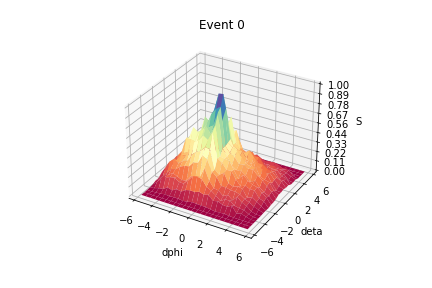
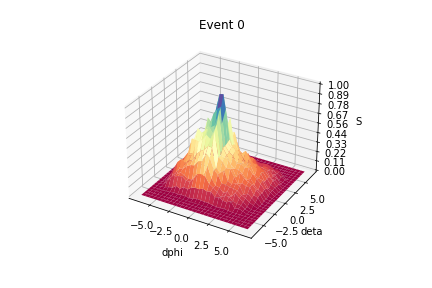
new fig, two bugs fix

diff --git a/utils.py b/utils.py
@@ -4,6 +4,8 @@ import numpy as np
 import scipy as sp
 import pandas as pd
 import matplotlib.pyplot as plt
+from matplotlib import cm
+from matplotlib.ticker import LinearLocator
 
 def importdf(fileaddress:str, delimit:str):  
     df = pd.read_csv(fileaddress,sep=delimit,header=None, names=["pt","eta","phi","charge"])
@@ -52,7 +54,7 @@ def importpdrange(start_event_index, end_event_index):
     for i in range(start_event_index+1, end_event_index+1):
         filename = 'ProcessedData/pbpb_' + str(i) + '.csv'
         datasetnow = importdf(filename, ',')
-        dataset = pd.concat([dataset, datasetnow])
+        dataset = pd.concat([dataset, datasetnow], ignore_index=True)
         print("importing event ",i)
     return dataset
 
